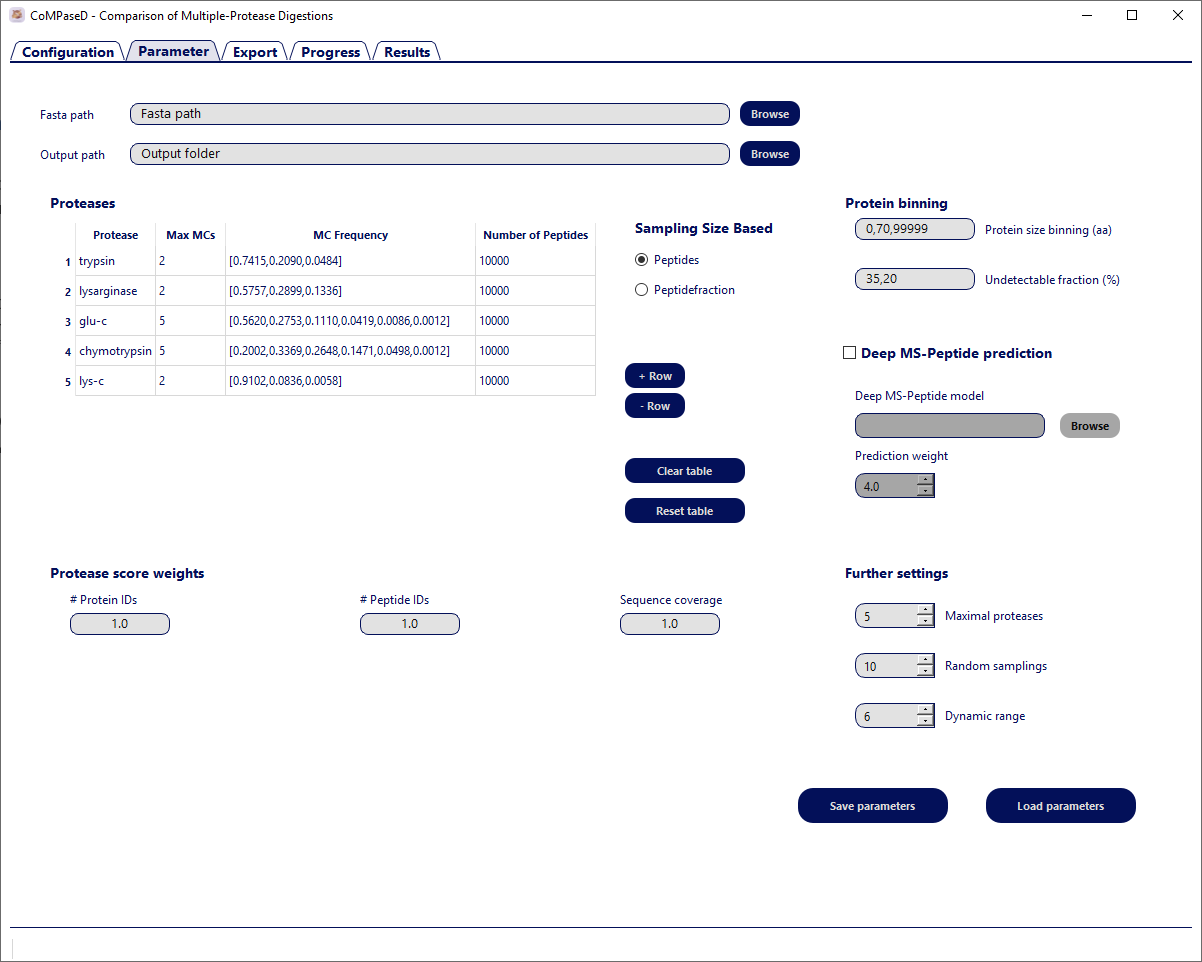
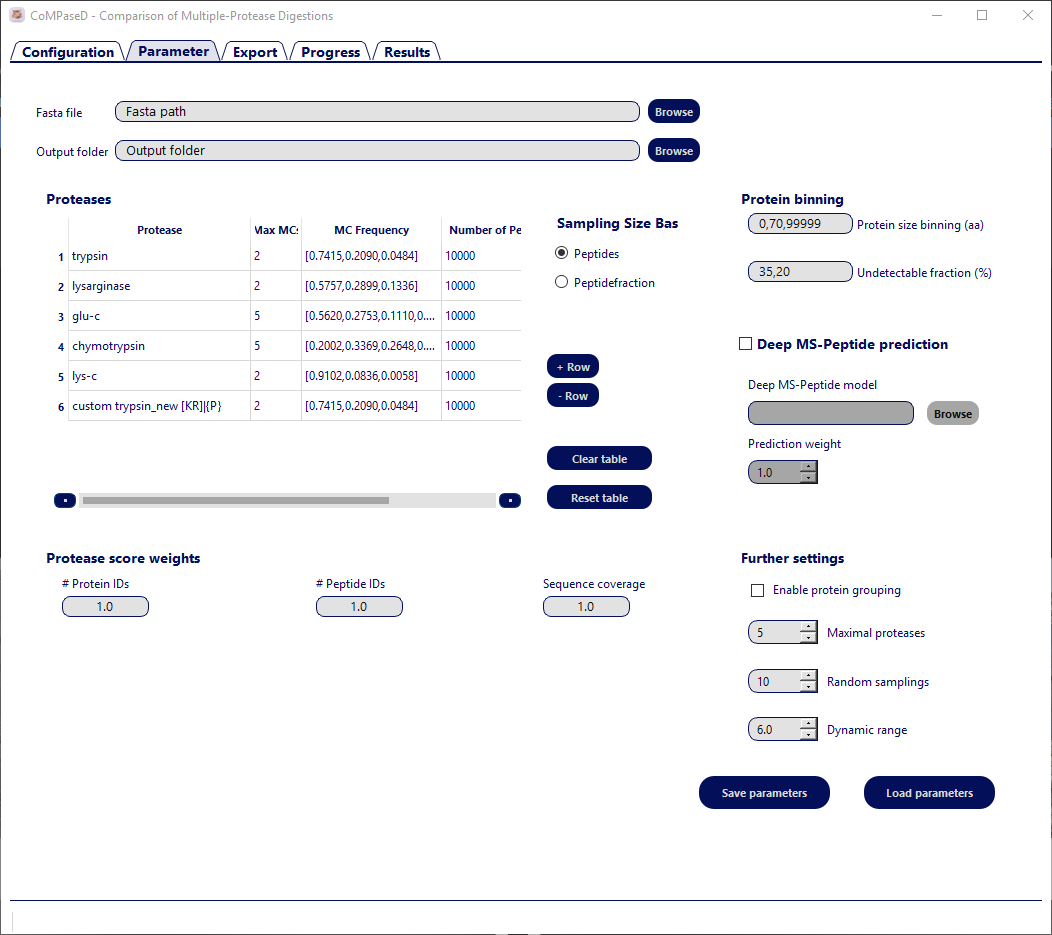
Updated documentation

diff --git a/docs/source/command_line_options.md b/docs/source/command_line_options.md
@@ -17,34 +17,39 @@ python CoMPaseD_cli.py -h
 
 ## Options  
 
-| Parameter Type            | Command Line Argument       | Description                                                                                                         |
-|---------------------------|-----------------------------|---------------------------------------------------------------------------------------------------------------------|
-| Help                      | -h, --help                  | show the help message and exit                                                                                      |
-| Parameter File            | -p, --param_file            | path to CoMPaseD parameter file                                                                                     |
-| CoMPaseD Mode             | -e, --export                | export simulated protein abundance values                                                                           |
-| CoMPaseD Mode             | -d, --digest                | perform in-silico digest using crux toolkit                                                                         |
-| CoMPaseD Mode             | -a, --analysis              | perform analysis from simulated protein abundance and in-silico digestion                                           |
-| Digestion Mode Arguments  | --use_original_proteomapper | use original perl scripts for mapping in-silico digested peptides, this might be slower but requires less memory    |
-| Digestion Mode Arguments  | --differentiate_I_L         | distinguish between peptide variants containing leucine or iso-leucine (default treat as identical)                 |
-| Digestion Mode Arguments  | --indexing_key_len          | length in amino acids of the indexing keys for mapping                                                              |
-| Analysis Mode Arguments   | --export_result             | path to CoMPaseD export result file with simulated protein abundance values and protein group assignment            |
-| Analysis Mode Arguments   | --digestion_result          | path to CoMPaseD digestion result file ('unique_peptides_table_filtered')                                           |
-| Overwrite Parameter File  | --out_folder                | change output directory                                                                                             |
-| Overwrite Parameter File  | --fasta                     | change fasta file                                                                                                   |
-| Overwrite Parameter File  | --score_peptide             | change weight of peptide IDs for protease score calculation                                                         |
-| Overwrite Parameter File  | --score_protein             | change weight of protein IDs for protease score calculation                                                         |
-| Overwrite Parameter File  | --score_coverage            | change weight of protein coverage for protease score calculation                                                    |
-| Overwrite Parameter File  | --enzymes                   | change enzymes                                                                                                      |
-| Overwrite Parameter File  | --mc                        | change maximal missed cleavage sites                                                                                |
-| Overwrite Parameter File  | --mc_freq                   | change missed cleavage sites frequency                                                                              |
-| Overwrite Parameter File  | --num_peps                  | change number of peptides to sample                                                                                 |
-| Overwrite Parameter File  | --frac_peps                 | change fraction of generated peptides to sample                                                                     |
-| Overwrite Parameter File  | --bins                      | change protein binning                                                                                              |
-| Overwrite Parameter File  | --undetectable              | change undetectable protein fraction in protein bins                                                                |
-| Overwrite Parameter File  | --DMSP_weight               | change weighting factor of Deep-MS-Peptide prediction                                                               |
-| Overwrite Parameter File  | --DMSP_model                | change Deep-MS-Peptide prediction model path                                                                        |
-| Overwrite Parameter File  | --samplings                 | change number of random samplings                                                                                   |
-| Overwrite Parameter File  | --dynamic_range             | change dynamic range of protein abundance                                                                           |
+| Parameter Type            | Command Line Argument       | Description                                                                                                          |
+|---------------------------|-----------------------------|----------------------------------------------------------------------------------------------------------------------|
+| Help                      | -h, --help                  | show the help message and exit                                                                                       |
+| Parameter File            | -p, --param_file            | path to CoMPaseD parameter file                                                                                      |
+| CoMPaseD Mode             | -e, --export                | export simulated protein abundance values                                                                            |
+| CoMPaseD Mode             | -d, --digest                | perform in-silico digest using crux toolkit                                                                          |
+| CoMPaseD Mode             | -a, --analysis              | perform analysis from simulated protein abundance and in-silico digestion                                            |
+| Digestion Mode Arguments  | --use_original_proteomapper | use original perl scripts for mapping in-silico digested peptides, this might be slower but requires less memory     |
+| Digestion Mode Arguments  | --differentiate_I_L         | distinguish between peptide variants containing leucine or iso-leucine (default treat as identical)                  |
+| Digestion Mode Arguments  | --indexing_key_len          | length in amino acids of the indexing keys for mapping                                                               |
+| Analysis Mode Arguments   | --export_result             | path to CoMPaseD export result file with simulated protein abundance values and protein group assignment             |
+| Analysis Mode Arguments   | --digestion_result          | path to CoMPaseD digestion result file ('unique_peptides_table_filtered')                                            |
+| Overwrite Parameter File  | --out_folder                | change output directory                                                                                              |
+| Overwrite Parameter File  | --fasta                     | change fasta file                                                                                                    |
+| Overwrite Parameter File  | --score_peptide             | change weight of peptide IDs for protease score calculation                                                          |
+| Overwrite Parameter File  | --score_protein             | change weight of protein IDs for protease score calculation                                                          |
+| Overwrite Parameter File  | --score_coverage            | change weight of protein coverage for protease score calculation                                                     |
+| Overwrite Parameter File  | --enzymes                   | change enzymes                                                                                                       |
+| Overwrite Parameter File  | --mc                        | change maximal missed cleavage sites                                                                                 |
+| Overwrite Parameter File  | --mc_freq                   | change missed cleavage sites frequency                                                                               |
+| Overwrite Parameter File  | --num_peps                  | change number of peptides to sample                                                                                  |
+| Overwrite Parameter File  | --min_pep_mw                | minimal molecular weight of peptides after digestion in Da (default: 400)                                            |
+| Overwrite Parameter File  | --max_pep_mw                | maximal molecular weight of peptides after digestion in Da (default: 6000)                                           |
+| Overwrite Parameter File  | --min_pep_len               | minimal length of peptides after digestion in amino acids (default: 6)                                               |
+| Overwrite Parameter File  | --max_pep_len               | maximal length of peptides after digestion in amino acids (default: 55)                                              |
+| Overwrite Parameter File  | --frac_peps                 | change fraction of generated peptides to sample                                                                      |
+| Overwrite Parameter File  | --bins                      | change protein binning                                                                                               |
+| Overwrite Parameter File  | --undetectable              | change undetectable protein fraction in protein bins                                                                 |
+| Overwrite Parameter File  | --DMSP_weight               | change weighting factor of Deep-MS-Peptide prediction                                                                |
+| Overwrite Parameter File  | --DMSP_model                | change Deep-MS-Peptide prediction model path                                                                         |
+| Overwrite Parameter File  | --samplings                 | change number of random samplings                                                                                    |
+| Overwrite Parameter File  | --dynamic_range             | change dynamic range of protein abundance                                                                            |
+| Overwrite Parameter File  | --use_unique_peptides_only  | change whether to use only unique peptides or assemble protein groups and consider shared peptides (default is true) |
 
 
 To run the full analysis provided by CoMPaseD use the following command.
@@ -59,7 +64,8 @@ To run specific parts of the analysis, the export (-e), digestion (-d) or result
 python CoMPaseD_cli.py -p path/to/parameter.param [-e] [-d] [-a]
 ```
 
-```{note} The [-a] flag requires to run the rest of the analysis beforehand [-e] and [-d].
+```{note} 
+The [-a] flag requires to run the rest of the analysis beforehand [-e] and [-d].
 ```
 
 All result files are written to the folder/files indicated in the `parameters` file or given as command-line arguments.
@@ -82,7 +88,7 @@ CoMPaseD_cli.py -p C:\CoMPaseD.param --out_folder C:\Result\Organism_2 --fasta C
 CoMPaseD_cli.py -p C:\CoMPaseD.param --out_folder C:\Result\Organism_3 --fasta C:\Organism_3.fasta
 ```
 
-Similarly, the following command in a Linux shell script would run one analysis with each of the two Deep MS-Peptide models using an existing export and digestion file which was specified in the parameter file (note that there is no line break within each command):
+Similarly, the following command in a Linux shell script would run one analysis with each of the two Deep MS-Peptide models using an existing export and digestion file which was specified in the parameter file:
 
 ```
 python3 /home/user/CoMPaseD/CoMPaseD_cli.py -p /home/user/CoMPaseD.param -a --DMSP_model /home/user/CoMPaseD/bin/DeepMSPep_Confetti_Model.h5 --out_folder /home/user/results/confetti_model/
@@ -92,7 +98,7 @@ python3 /home/user/CoMPaseD/CoMPaseD_cli.py -p /home/user/CoMPaseD.param -a --DM
 python3 /home/user/CoMPaseD/CoMPaseD_cli.py -p /home/user/CoMPaseD.param -a --DMSP_model /home/user/CoMPaseD/bin/DeepMSPep_Original_Model.h5 --out_folder /home/user/results/original_model/
 ```
 
-Command line options will generally overwrite values in the parameter file and a parameter file with the used values will automatically be saved in the output folder together with the results.
+Command line options will generally overwrite values in the parameter file, and a parameter file with the used values will automatically be saved in the output folder together with the results.
 The complete list of options available can be displayed by executing:
 
 ```bash

diff --git a/docs/source/graphical_user_interface.md b/docs/source/graphical_user_interface.md
@@ -59,11 +59,15 @@ This table lists the available proteases in your lab along with relevant propert
 * `pepsin-a`
 * `elastase-trypsin-chymotrypsin`
 * lysarginase  
+```{note} 
+The highlighted proteases do not cleave when the cleavage site is followed by proline.
+```
+
+Additionally, **custom enzymes** can be specified using the *custom* keyword followed by a freely definable name and the protease specificity. Specificity must be defined as in crux by two pairs of squared or curly brackets enclosing residues N-terminal and C-terminal to the cleavage site. Residues in squared brackets trigger cleavage, those in curly brackets prevent it. Example: `custom trypsin_new [KR]|{P}` will create a custom protease named trypsin_new in the output and cleave C-terminal to K and R residues if those are not followed by P.
 
 *Parameter file: [Proteases](params-proteases)*  
 
-```{note} The highlighted proteases do not cleave when the cleavage site is followed by proline.
-```
+
 
 The **Max MCs column** specifies the maximum number of missed cleavage sites (MCs) expected for each protease. The **MC frequency column** defines the distribution of MCs across all identified peptides for each protease. This should be listed in ascending order of MCs, including a value for peptides without missed cleavages, and values for different proteases can be separated by square brackets.  
 *Parameter file: [Max_MCs](params-max_mc)*  
@@ -79,15 +83,15 @@ Although these values are highly dependent on the experimental setup, a rough es
   
 
   
-### Protease binning  
+### Protein binning  
 
-CoMPaseD is designed to compare the suitability of different proteases or combinations for detecting small proteins. Thus, proteins can be grouped by length using the **Protein size binning (aa)** setting, with protease scores calculated separately for each group. To this aim, protein length values are provided as a comma separated list, *e.g.* `0,70,99999` to create two bins: i) proteins up to 70 amino acids length, and ii) proteins between 71 and 99,999 amino acids length.  
+CoMPaseD is designed to compare the suitability of different proteases or combinations for detecting small proteins. Thus, proteins can be grouped by length using the **Protein size binning (aa)** setting, with protease scores calculated separately for each group. To this aim, protein length values are provided as a comma-separated list, *e.g.* `0,70,99999` to create two bins: i) proteins up to 70 amino acids length, and ii) proteins between 71 and 99,999 amino acids length.  
 *Parameter file: [Bins](params_bins)*  
 
 An undetectable fraction of the proteins can also be specified for each protein group in the **Undetectable fraction (%)** field. This is particularly useful when working with databases containing *in-silico* predicted small open reading frames (sORFs), which are often not expressed *in vivo*. In such cases, a high undetectable fraction can compensate for the inherent bias against large proteins. Conversely, if the experiment involves enrichment of small proteins, the undetectable fraction for large proteins can be increased to reflect their depletion.  
 *Parameter file: [Not_expressed_fraction](params_undetectable)*  
 
-Protein groups can also be customized using user-defined annotations (e.g., cellular localization) by uploading tab-delimited annotation files in the [export tab](gui_export). These files must contain a column named **Identifier** corresponding to protein identifiers in the export tab and at least one column for protein grouping.  
+Protein groups can also be customised using user-defined annotations (e.g. cellular localisation) by uploading tab-delimited annotation files in the [export tab](gui_export). These files must contain a column named **Identifier** corresponding to protein identifiers in the export tab and at least one column for protein grouping.  
 
 
 
@@ -104,6 +108,9 @@ The **Prediction weight** parameter adjusts the influence of peptide detectabili
 
 
 ### Further settings  
+
+CoMPaseD considers only unique peptides per protease by default. If all peptides should be considered and protein groups be built, the option **Enable Protein Grouping** can be activated. The median number of peptides per protein in the group and the median sequence coverage in the group will be considered the representative value of the group for calculating the protease score.  
+*Parameter file: [Use_Unique_Peptides_Only](params-unique_peptides_only)* (Note that the parameter value is True by default, i.e. do not enable protein grouping.)  
 
 The protease score typically increases with the number of proteases used. However, due to constraints like sample availability and instrument time, it is often impractical to use too many proteases. The **Maximal proteases** setting limits the number of proteases combined in a single analysis.  
 *Parameter file: [Number_of_Proteases](params_max_proteases)*  
@@ -142,7 +149,8 @@ For further details on this table, refer to [ProteinAbundance.tsv](result-protei
 *Parameter file: [Protein_weight_file](params_protein_abundance_file)*  
 
 
-```{hint} Saving this table allows for repeating analyses with different settings, e.g. for the specificity of proteases or the number of identified peptides while keeping abundance values constant. However, due to the semi-random nature of subsequent peptide sampling, slightly different results are expected for each run even when parameters are kept constant.
+```{hint} 
+Saving this table allows for repeating analyses with different settings, e.g. for the specificity of proteases or the number of identified peptides while keeping abundance values constant. However, due to the semi-random nature of subsequent peptide sampling, slightly different results are expected for each run even when parameters are kept constant.
 ```  
 
 

diff --git a/docs/source/parameters.md b/docs/source/parameters.md
@@ -36,9 +36,19 @@ Each parameter is specified using a keyword, with a brief explanation of its fun
 
 ### **Protease Digestion Parameters**  
 (params-proteases)=
-- **Proteases**: List of proteases used for digestion (comma-separated). Only protease names available in the Crux toolkit are allowed *(default = `trypsin,lysarginase,glu-c,chymotrypsin,lys-c`)*.  
+- **Proteases**: List of proteases used for digestion (comma-separated). Only protease names available in the Crux toolkit are allowed *(default = `trypsin,lysarginase,glu-c,chymotrypsin,lys-c`)*. The custom enzyme mode from crux can be enabled by prefixing any protease with custom and suffixing by the cleavage rule as used in Crux, *e.g.* `custom trypsin_new [KR]|{P}` would create a custom trypsin_new cleaving after K and R but not if followed by P.  
 (params-max_mc)=
-- **Max_MCs**: Maximum number of missed cleavages (MCs) allowed per protease. The order corresponds to `Proteases` *(default = `2,2,5,5,2`)*.  
+- **Max_MCs**: Maximum number of missed cleavages (MCs) allowed per protease. The order corresponds to `Proteases` *(default = `2,2,5,5,2`)*.
+
+*the following parameters are only available in the command line version of CoMPaseD:*
+(params-min_pep_mw)=
+- **Min_Pep_MW**: Minimum peptide mass to be considered for digestion *(default = `400`)*.  
+(params-max_pep_mw)=
+- **Max_Pep_MW**: Maximum peptide mass to be considered for digestion *(default = `6000`)*.  
+(params-min_pep_len)= 
+- **Min_Pep_Len**: Minimum peptide length to be considered for digestion *(default = `6`)*.  
+(params-max_pep_len)= 
+- **Max_Pep_Len**: Maximum peptide length to be considered for digestion *(default = `55`)*.  
 
 
 ### **Peptide Sampling & Coverage**  
@@ -59,6 +69,8 @@ The default configuration indicates that for trypsin there are peptides with zer
 - **Bins**: Protein length bins used to calculate group-wise protease scores *(default = `0,50,100,99999`)*.  
 
 ### **Monte Carlo Simulation Parameters**  
+-(params-unique_peptides_only)=
+- **Use_Unique_Peptides_Only**: If `True`, only peptides that map uniquely to one protein are retained for every protease. If set to `False`, all peptides are used and CoMPaseD builds protein groups where required. *(default = `True`)*.
 (params_max_proteases)=  
 - **Number_of_Proteases**: Maximal number of proteases concurrently used in the analysis *(default = `5`)*.  
 (params_n_samplings)=  
@@ -115,6 +127,10 @@ Max_MCs = 2,2,5,5,2
 Freq_MCs = [0.7415,0.2090,0.0484],[0.5757,0.2899,0.1336],[0.5620,0.2753,0.1110,0.0419,0.0086,0.0012],[0.2002,0.3369,0.2648,0.1471,0.0498,0.0012],[0.9102,0.0836,0.0058]
 Peptides_Sampling_Size = 10000,10000,10000,10000,10000
 Pep_Level_Proteome_Cov = 0.033051,0.031973356,0.014570424,0.009367681,0.053870932
+Min_Pep_MW = 400
+Max_Pep_MW = 6000
+Min_Pep_Len = 6
+Max_Pep_Len = 55
 Sampling_Size_Based_On = number
 Bins = 0,50,100,99999
 Number_of_Proteases = 5
@@ -126,6 +142,7 @@ Peptide_IDs_weight = 1.0
 Coverage_weight = 1.0
 Use_DeepMSPeptide_Predictions = True
 Weights_DeepMSPeptide_Predictions = 1.0
+Use_Unique_Peptides_Only = True
 Path_DeepMSPeptide_Model = C:/Programs/CoMPaseD/bin/CoMPaseDDMSPModel.h5
 Protein_weight_file = 
 Digestion_result_file = C:/CoMPaseD_Data/output/unique_peptides_table_filtered.tsv

diff --git a/docs/source/setup.md b/docs/source/setup.md
@@ -1,7 +1,7 @@
 (setup-installation)=
 # Installation
 
-CoMPaseD is written in Python 3 and has been tested on Windows (≥ Windows 10) and Linux machines. Installation and program start should be done via the command prompt while configuring and running CoMPaseD analyses is possible via the command prompt or the graphical interface.
+CoMPaseD is written in Python 3 and has been tested on Windows (≥ Windows 10) and Linux machines. Installation and program start should be done via the command prompt, while configuring and running CoMPaseD analyses is possible via the command prompt or the graphical interface.
 
 ## Dependencies
 
@@ -13,7 +13,8 @@ Download the binaries suitable for your operating system (Windows/Linux) (versio
 ### Python
 
 To run CoMPaseD python (versions 3.5–3.12 tested) is required.
-```{note} While newer python versions may be compatible, some dependencies may not be immediately available for the latest releases. It is recommended to use a tested version to ensure full functionality.
+```{note} 
+While newer python versions may be compatible, some dependencies may not be immediately available for the latest releases. It is recommended to use a tested version to ensure full functionality.
 ```
 
 Install python using:
@@ -72,7 +73,8 @@ The Python packages with suitable version numbers are listed in the provided `re
 
 ```
 
-```{tip} We recommend using a virtual environment and pip to install these dependencies.
+```{tip} 
+We recommend using a virtual environment and pip to install these dependencies.
 ```
 
 Install the Python requirements using `pip` and `requirements.txt`:

diff --git a/docs/source/welcome.md b/docs/source/welcome.md
@@ -1,5 +1,5 @@
 # Welcome to CoMPaseD
-CoMPaseD - **Co**mparrison of **M**ultiple **P**rote**ase** **D**igestions
+CoMPaseD - **Co**mparison of **M**ultiple **P**rote**ase** **D**igestions
 
 ---
 ## Purpose
@@ -11,10 +11,11 @@ While particularly useful for studying small proteins, CoMPaseD can also be appl
 
 ---
 ## Quick Start
-If CoMPaseD is not installed on your system plase refer to [Setup](setup-Installation).
+If CoMPaseD is not installed on your system please refer to [Setup](setup-Installation).
 
 CoMPaseD provides both, a command-line interface (CLI), and a graphical user interface (GUI).  
-```{note} The following command-line calls might slightly differ depending on your python setup.
+```{note} 
+The following command-line calls might slightly differ depending on your python setup.
 ```
 For most applications the GUI is the preferred option. It can be started by running the `CoMPaseD_gui.py` command:  
 ```bash
